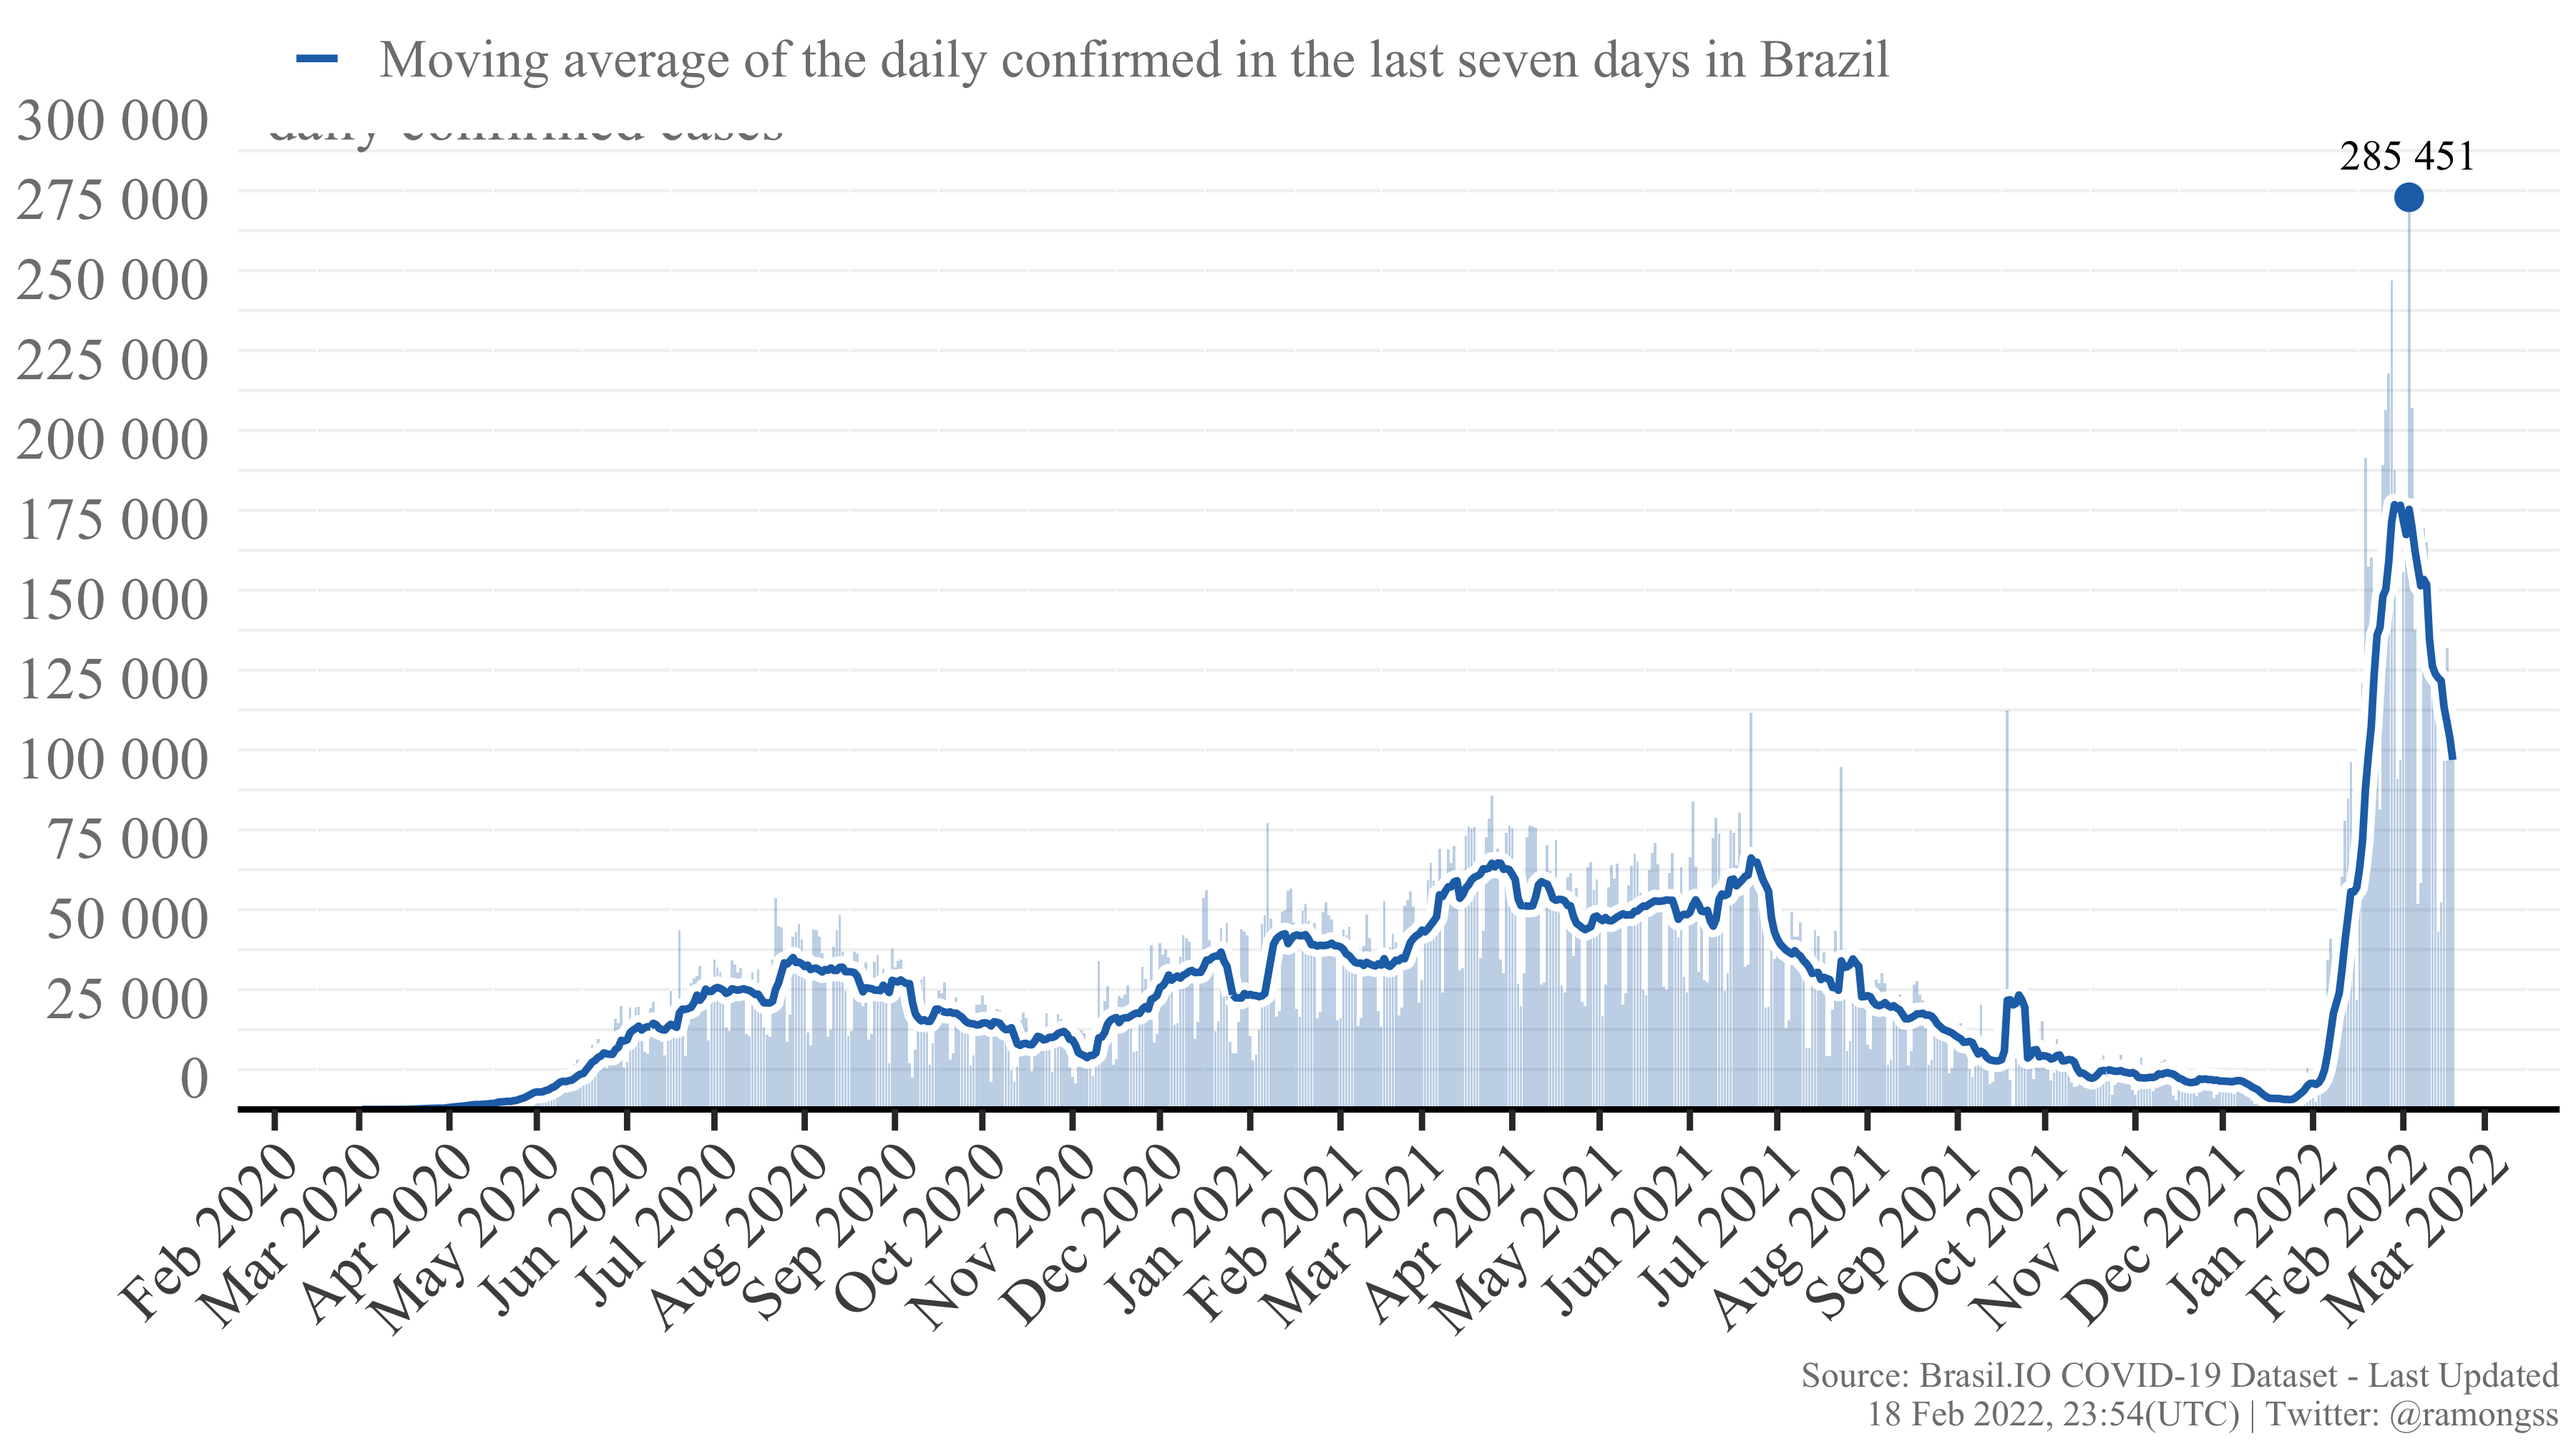
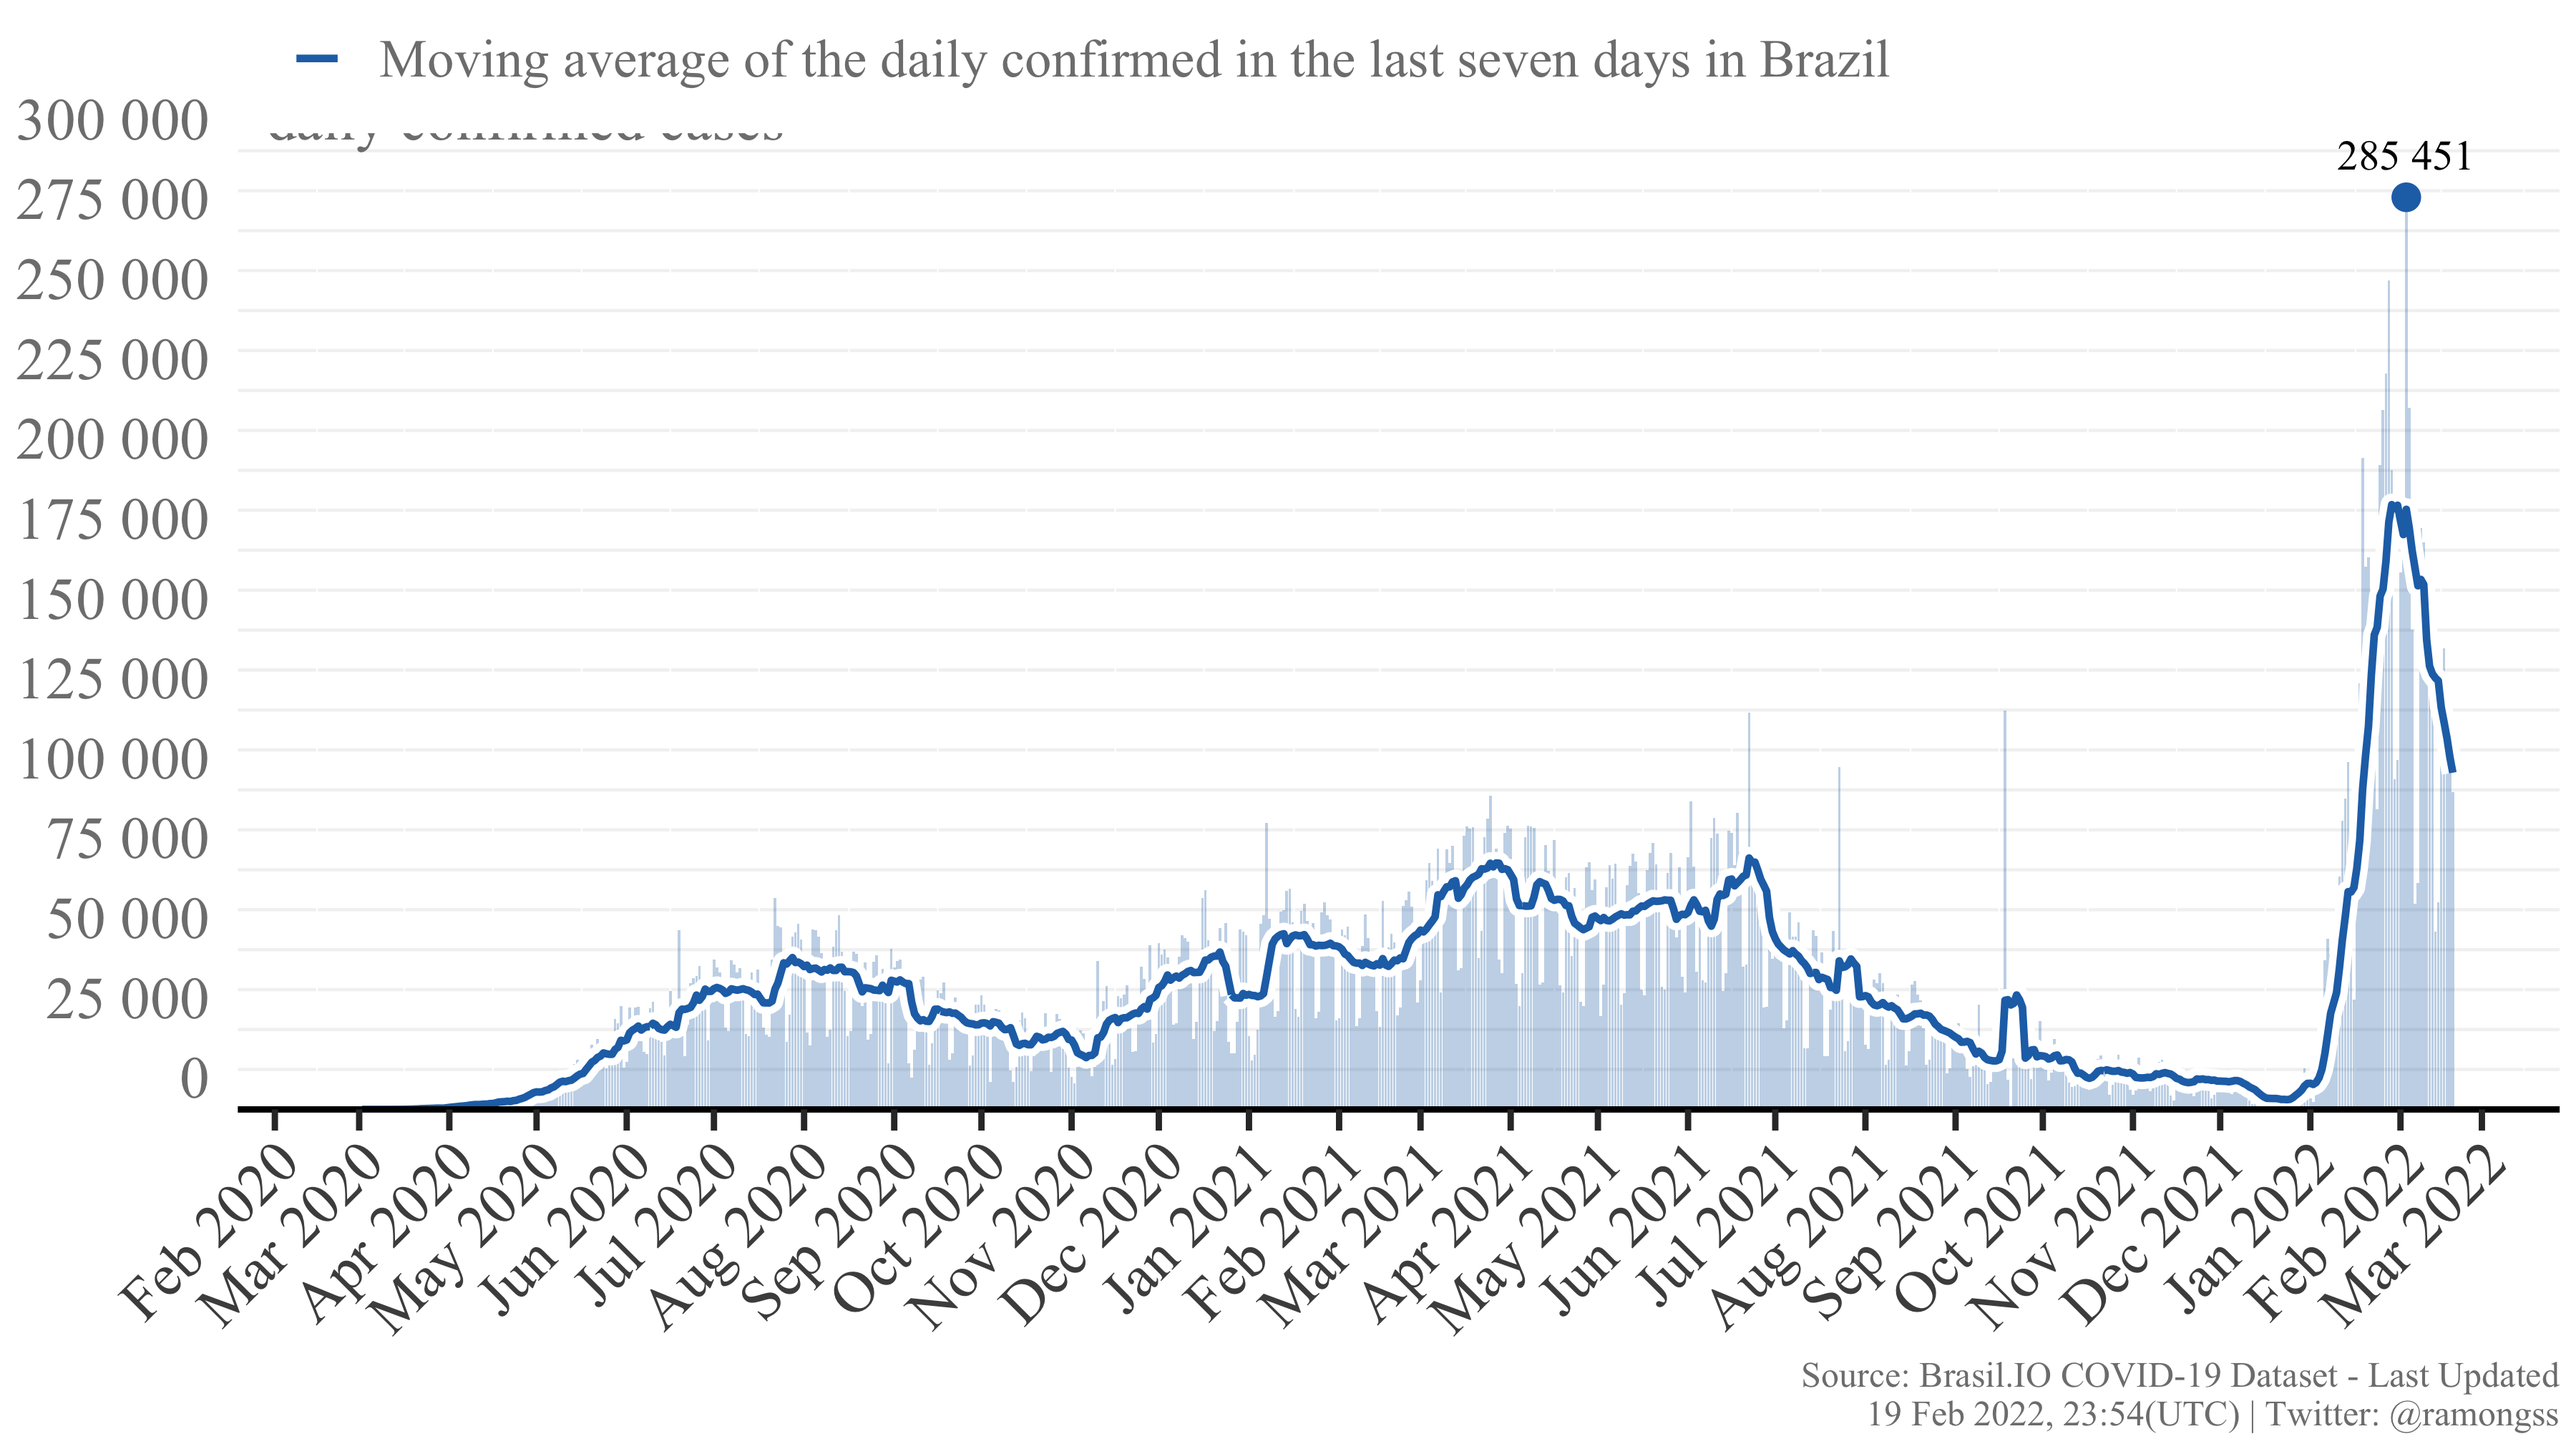
Re-build README.Rmd

diff --git a/README.md b/README.md
@@ -27,8 +27,8 @@ download_brasilio_table <- function(dataset = "covid19", table_name){
 
 ## COVID-19 Confirmed cases
 
-Currently, Brazil has a total of **28,072,238** confirmed cases at **18
-Feb, 2022**, with **114,309** new confirmed cases. The daily maximum
+Currently, Brazil has a total of **28,177,367** confirmed cases at **19
+Feb, 2022**, with **99,248** new confirmed cases. The daily maximum
 incidence was **285,451** confirmed cases at **03 Feb, 2022**. Here
 follows the Figure showing the confirmed case incidence as the bars, and
 the line as the moving average of the last 7 days.
@@ -37,8 +37,8 @@ the line as the moving average of the last 7 days.
 
 ## COVID-19 Deaths
 
-Currently, Brazil has a total of **643,340** deaths at **18 Feb, 2022**,
-with **1,081** new deaths. The daily maximum deaths incidence was
+Currently, Brazil has a total of **644,195** deaths at **19 Feb, 2022**,
+with **818** new deaths. The daily maximum deaths incidence was
 **4,148** deaths at **08 Apr, 2021**. Here follows the Figure showing
 the deaths incidence as the bars, and the line as the moving average of
 the last 7 days.
@@ -49,4 +49,4 @@ the last 7 days.
 
 This page is daily updated automatically using Github Actions.
 
-*Last update: 18 Feb 2022, 23:54 (UTC).*
+*Last update: 19 Feb 2022, 23:54 (UTC).*
